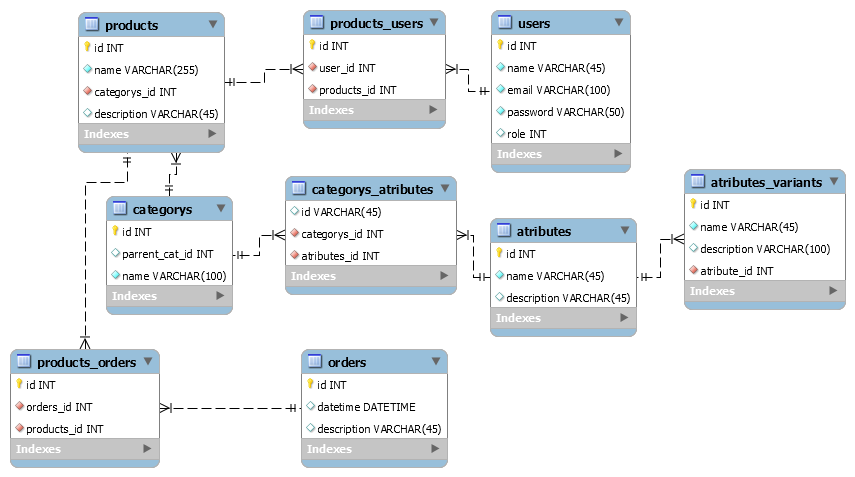
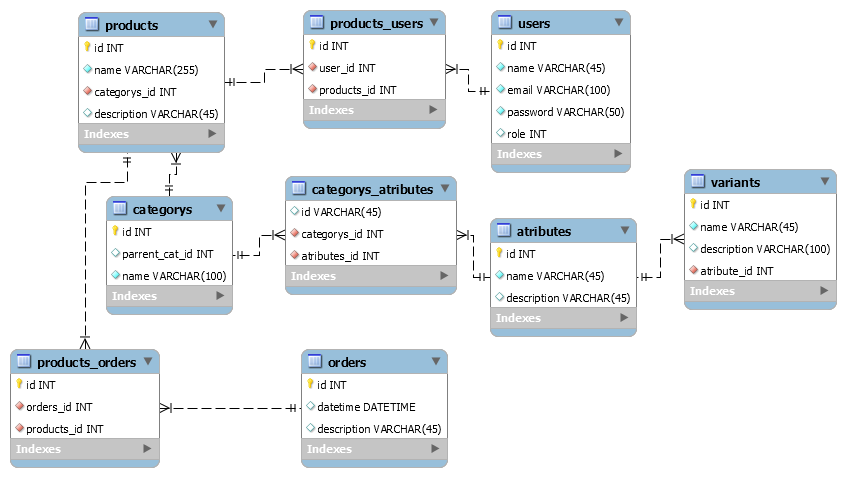
update db structure create product domain object update create hsql script

diff --git a/src/main/java/ua/ho/godex/domain/Product.java b/src/main/java/ua/ho/godex/domain/Product.java
@@ -10,5 +10,41 @@ public class Product {
     @Access(AccessType.PROPERTY)
     @GeneratedValue(strategy = GenerationType.IDENTITY)
     private Integer id;
+    private String name;
+    private String description;
+    @Column(name = "category_id")
+    private Integer categoryId;
 
+    public Product() {
+    }
+
+    public Product(String name, String description, Integer categoryId) {
+        this.name = name;
+        this.description = description;
+        this.categoryId = categoryId;
+    }
+
+    public Integer getId() {
+        return id;
+    }
+
+    public void setId(Integer id) {
+        this.id = id;
+    }
+
+    public String getName() {
+        return name;
+    }
+
+    public void setName(String name) {
+        this.name = name;
+    }
+
+    public String getDescription() {
+        return description;
+    }
+
+    public void setDescription(String description) {
+        this.description = description;
+    }
 }
